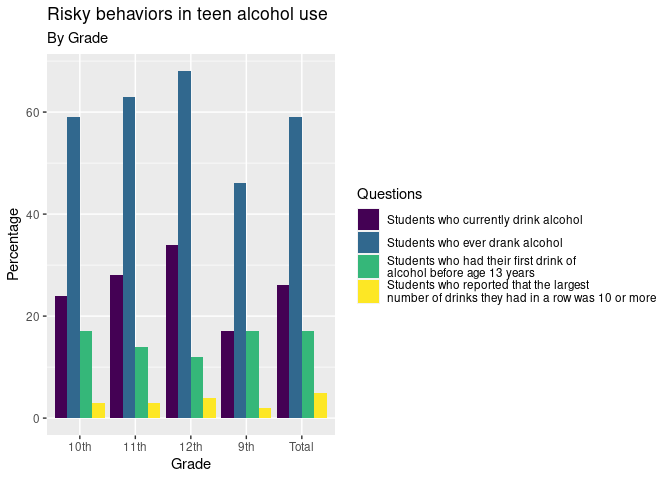
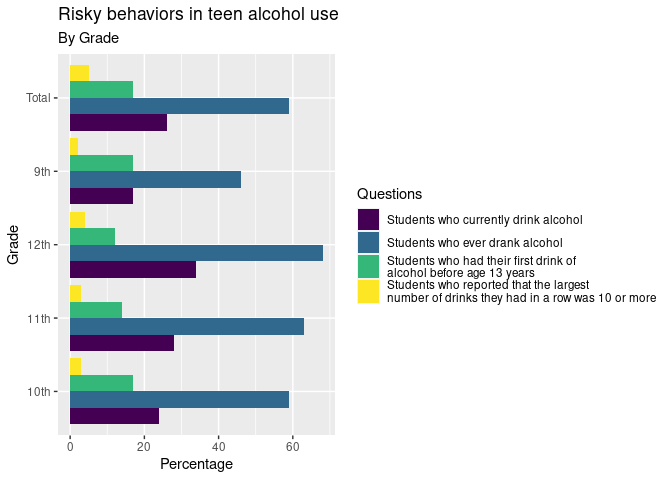
Updated order of variables in alc race visualization

diff --git a/proposal/proposal.md b/proposal/proposal.md
@@ -110,11 +110,14 @@ Alc_Race_data_frame <- new_youth_risk_df %>%
 ```
 
 ``` r
+Alc_Race_data_frame$Race <-  fct_relevel(Alc_Race_data_frame$Race, c("White", "Hispanic or Latino", "Multiple Race", "American Indian or Alaska Native", "Asian", "Black or African American", "Total"))
+
 Alc_Race_data_frame %>% 
-  filter(Race != "Native Hawaiian or Other Pacific Islander") %>% 
-ggplot(aes(x= Race, y = Risk_Percent, fill = ShortQuestionText)) +
+  filter(Race != "Native Hawaiian or Other Pacific Islander") %>%
+  #mutate(Race = fct_relevel(Race, "White")) %>%
+ggplot(aes(y= Race, x = Risk_Percent, fill = ShortQuestionText)) +
    geom_col(position="dodge", stat="identity") +
-labs(x = "Race", y = "Percentage",
+labs(y = "Race", x = "Percentage",
     title = "Risky behaviors in teen alcohol use",
     subtitle = "By Race",
     fill = "Severity") +
@@ -150,9 +153,9 @@ Alc_Grade_data_frame <- new_youth_risk_df %>%
 ``` r
 Alc_Grade_data_frame %>% 
   filter(Grade != "Native Hawaiian or Other Pacific Islander") %>% 
-ggplot(aes(x= Grade, y = Risk_Percent, fill = ShortQuestionText)) +
+ggplot(aes(y= Grade, x = Risk_Percent, fill = ShortQuestionText)) +
    geom_col(position="dodge", stat="identity") +
- labs(x = "Grade", y = "Percentage",
+ labs(y = "Grade", x = "Percentage",
     title = "Risky behaviors in teen alcohol use",
     subtitle = "By Grade",
     fill = "Severity") +
@@ -188,9 +191,9 @@ Alc_Sex_data_frame <- new_youth_risk_df %>%
 ``` r
 Alc_Sex_data_frame %>% 
   filter(Sex != "Native Hawaiian or Other Pacific Islander") %>% 
-ggplot(aes(x= Sex, y = Risk_Percent, fill = ShortQuestionText)) +
+ggplot(aes(y= Sex, x = Risk_Percent, fill = ShortQuestionText)) +
    geom_col(position="dodge", stat="identity") +
- labs(x = "Sex", y = "Percentage",
+ labs(y = "Sex", x = "Percentage",
     title = "Risky behaviors in teen alcohol use",
     subtitle = "By Sex",
     fill = "Severity") +
